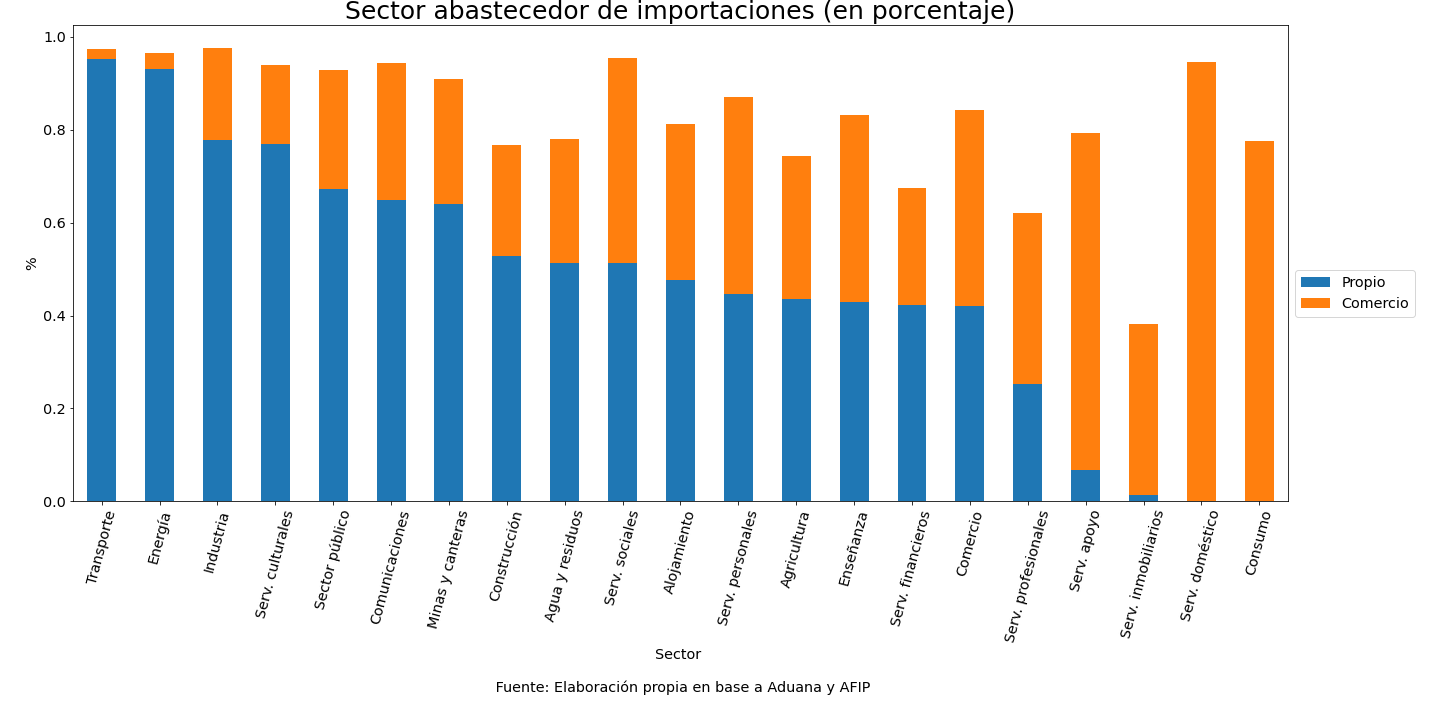
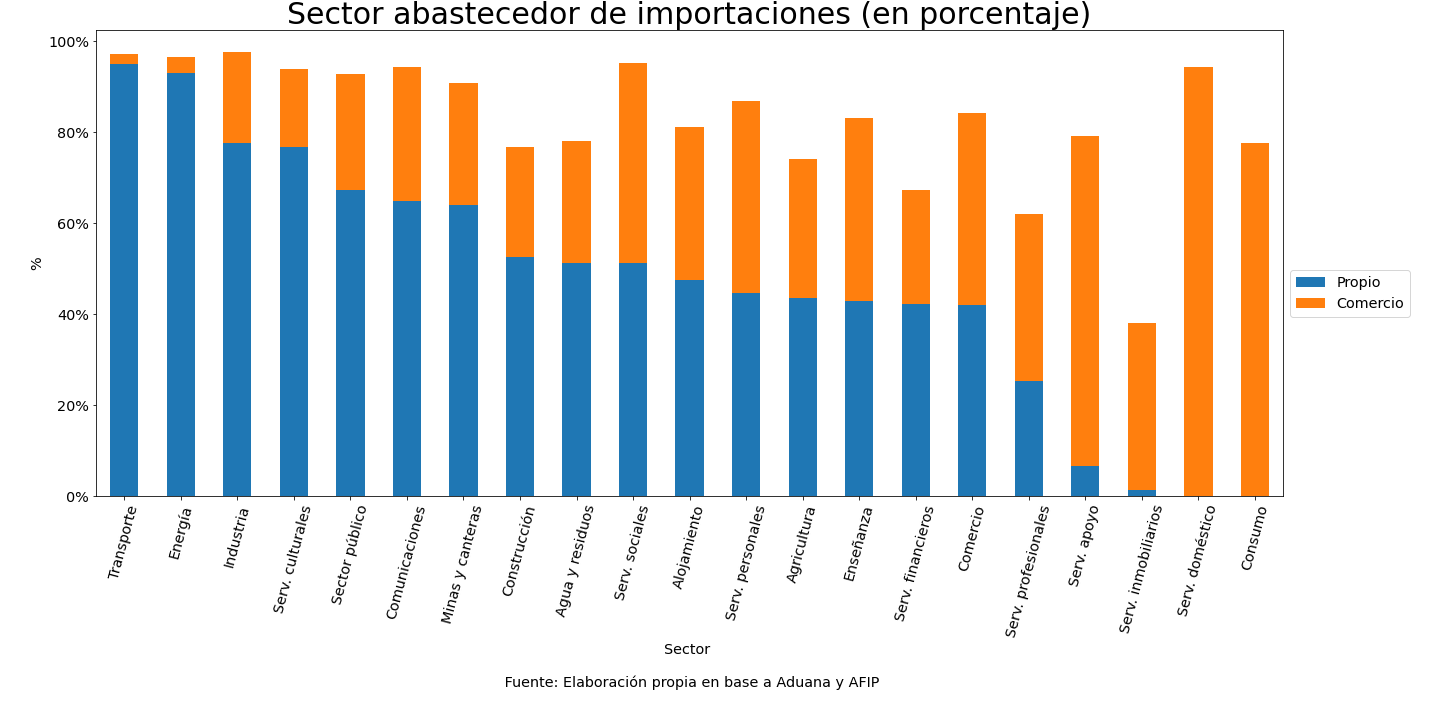
graficos letra comparacion

Changed region(s): [[0.0312, 0.0, 1.0, 0.8861], [0.3438, 0.9472, 0.5938, 0.9778], [0.4375, 0.8861, 0.5, 0.9167]]

diff --git a/scripts/letra/clasificador_SISD_letra.py b/scripts/letra/clasificador_SISD_letra.py
@@ -82,13 +82,13 @@ join_final = pd.read_csv("../data/resultados/impo_con_ponderaciones.csv")
 #############################################
 
 #creamos df para guardar los insumos de la matriz
-insumo_matriz = pd.DataFrame()
-insumo_matriz ["cuit"]=""
-insumo_matriz ["hs6"]=""
-insumo_matriz ["valor_pond"]=""    
-insumo_matriz ["si"]=""    
-insumo_matriz ["sd"]=""
-insumo_matriz ["ue_dest"]=""
+# insumo_matriz = pd.DataFrame()
+# insumo_matriz ["cuit"]=""
+# insumo_matriz ["hs6"]=""
+# insumo_matriz ["valor_pond"]=""    
+# insumo_matriz ["si"]=""    
+# insumo_matriz ["sd"]=""
+# insumo_matriz ["ue_dest"]=""
 
 # matriz_sisd = def_insumo_matriz(insumo_matriz, join_final)
 matriz_sisd = pd.read_csv("../data/resultados/matriz_pesada.csv")
@@ -111,7 +111,7 @@ z= z.replace(np.nan,0)
 
 
 #############################################
-#             Visualización                 #
+#             Matriz Numpy                 #
 #############################################
 
 # transformacion a array de np
@@ -137,13 +137,17 @@ sectores = pd.DataFrame( { "desc":sectores_desc.values(), "letra": sectores_desc
 #diagonal sobre total col y comercio sobre total
 diag_total_col = diagonal/col_sum
 g_total_col = z_visual[6][:]/col_sum
-comercio_y_propio = pd.DataFrame({"Propio": diag_total_col , 'Comercio': g_total_col} , index = sectores_desc.values())
+comercio_y_propio = pd.DataFrame({"Propio": diag_total_col*100 , 'Comercio': g_total_col*100} , index = sectores_desc.values())
 
 
 #importaciones totales (ordenadas)
 impo_tot_sec = pd.DataFrame({"impo_tot": col_sum, "letra":sectores_desc.keys() }, index=sectores_desc.values())  
 impo_tot_sec.sort_values(by = "impo_tot", ascending= False, inplace = True)
 
+
+# =============================================================================
+#                       Visualizacion
+# =============================================================================
 #parametro para graficos
 params = {'legend.fontsize': 'x-large',
           'figure.figsize': (20, 10),
@@ -153,7 +157,6 @@ params = {'legend.fontsize': 'x-large',
          'ytick.labelsize':'x-large'}
 plt.rcParams.update(params)
  
-
 
 ##### grafico 1
 #posiciones para graf
@@ -171,18 +174,19 @@ plt.savefig('../data/resultados/impo_totales_letra.png')
 
 ##### grafico 2
 #graf division comercio y propio
-comercio_y_propio.sort_values(by = 'Propio', ascending = False).plot(kind = "bar", rot = 75,
-                                                                     stacked = True, ylabel = "%", xlabel = "Sector \n \n Fuente: Elaboración propia en base a Aduana y AFIP")#,
-                                                                     # title = "Sector abastecedor de importaciones (en porcentaje)")
-plt.legend(loc='best', bbox_to_anchor=(1.0, 0.5))
-plt.tight_layout(pad=2.5)
-plt.title( "Sector abastecedor de importaciones (en porcentaje)",  fontsize = 25)
+import matplotlib.ticker as mtick
+ax = comercio_y_propio.sort_values(by = 'Propio', ascending = False).plot(kind = "bar", rot = 75,
+                                                                     stacked = True, ylabel = "%", xlabel = "Sector \n \n Fuente: Elaboración propia en base a Aduana y AFIP")
+                                                                     
+ax.yaxis.set_major_formatter(mtick.PercentFormatter())
+ax.legend(loc='best', bbox_to_anchor=(1.0, 0.5))
+plt.tight_layout(pad=3)
+plt.title( "Sector abastecedor de importaciones (en porcentaje)",  fontsize = 30)
 plt.savefig('../data/resultados/comercio_y_propio_letra.png')
 
 
-##### grafico 3
+##### insumos tabla 1
 # Top 5 de importaciones de cada sector
-
 x = matriz_sisd_final.groupby(["hs6", "sd"], as_index=False)['valor_pond'].sum("valor_pond")
 top_5_impo = x.reset_index(drop = True).sort_values(by = ["sd", "valor_pond"],ascending = False)
 top_5_impo  = top_5_impo.groupby(["sd"], as_index = True).head(5)
@@ -192,14 +196,13 @@ top_5_impo  = pd.merge(top_5_impo  , impo_tot_sec, left_on="letra", right_on="le
 top_5_impo["impo_relativa"] = top_5_impo["valor_pond"]/top_5_impo["impo_tot"] 
 top_5_impo["short_name"] = top_5_impo["HS6Desc"].str.slice(0,15)
 
-
 top_5_impo.to_csv("../data/resultados/top5_impo.csv")
 top_5_impo.to_excel("../data/resultados/top5_impo.xlsx")
 
 
-##### grafico 4
+##### grafico 3
 
-#carga balance cambiario
+######## carga balance cambiario
 bce_cambiario = pd.read_csv("../data/balance_cambiario.csv", skiprows = 3, error_bad_lines=False, sep= ";", na_values =['-'])
 bce_cambiario.drop(bce_cambiario.columns[16:], axis=1, inplace=True)
 bce_cambiario.rename(columns= {"Años": "anio", "ANEXO": "partida", "Denominación": "sector" }, inplace= True)
@@ -231,24 +234,46 @@ R= impo_tot_bcra.iloc[[8]].sum() #serv culturales
 
 impo_bcra_letra =  pd.DataFrame([A,B,C,D,E,F,G,H,I,J,K,O,R], index= ["A","B","C","D","E","F","G","H","I","J","K","O","R"]).drop("sector", axis = 1).reset_index().rename(columns= {"index": "letra", 0: "impo_bcra"} )
 
+
+######## carga para CIIU
+isic = pd.read_csv("../data/JobID-64_Concordance_HS_to_I3.csv", encoding = "latin" )
+isic=isic.iloc[:,[0,2]]
+isic.columns= ["HS6", "ISIC"]
+
+dic_ciiu = pd.read_excel("../data/Diccionario CIIU3.xlsx")
+dic_ciiu = dic_ciiu.iloc[:, [0,-2,-1] ]
+dic_ciiu.columns = ["ISIC", "letra", "letra_desc"]
+
+ciiu = pd.merge(isic, dic_ciiu, how= "left" , left_on ="ISIC", right_on ="ISIC")
+
+ciiu["letra"].unique()
+impo_ciiu["letra"].unique()
+impo_ciiu["letra_desc"].unique()
+
+impo_ciiu =pd.merge(join_impo_clae_bec_bk[["HS6", "valor"]], ciiu, how = "left" ,right_on="HS6", left_on="HS6")
+impo_ciiu_letra =impo_ciiu[impo_ciiu["letra"].notnull()].groupby("letra")["valor"].sum()
+
+as_list = impo_ciiu_letra.index.tolist()
+idx = as_list.index("D")
+as_list[idx] = "C"
+impo_ciiu_letra.index = as_list
+
+impo_ciiu_letra = pd.DataFrame(impo_ciiu_letra).reset_index() 
+impo_ciiu_letra.columns = ["letra", "impo_ciiu"]
+
+######### COMPARACION
 comparacion = pd.merge(impo_tot_sec, impo_bcra_letra, left_on= "letra", right_on= "letra", how="right" )
+comparacion = pd.merge(comparacion, impo_ciiu_letra, left_on= "letra", right_on= "letra", how="left" )
+
 comparacion = pd.merge(comparacion, sectores , left_on= "letra", right_on= "letra", how="left" )
 comparacion["impo_tot"] = np.log(comparacion["impo_tot"]/10**6) 
 comparacion["impo_bcra"] = np.log(comparacion["impo_bcra"]) 
+comparacion["impo_ciiu"] = np.log(comparacion["impo_ciiu"]) 
 
-comparacion.sort_values(by = 'impo_tot', ascending = False).plot(x="desc", y = ["impo_tot", "impo_bcra"], kind="bar", rot=75,
-                 ylabel = "Millones de dólares, escala logarítmica", xlabel = "Sector \n \n Fuente: Elaboración propia en base a BCRA, Aduana y AFIP")#,)
+comparacion.sort_values(by = 'impo_tot', ascending = False).plot(x="desc", y = ["impo_tot", "impo_bcra", "impo_ciiu"], kind="bar", rot=75,
+                 ylabel = "Millones de dólares, escala logarítmica", xlabel = "Sector \n \n Fuente: Elaboración propia en base a BCRA, Aduana y AFIP. La estimación del BCRA no es exclusiva de Bienes de Capital")#,)
 plt.legend(loc='best', bbox_to_anchor=(1.0, 0.5))
-plt.tight_layout(pad=2.5)
-plt.title( "Importacion total sectorial. Comparación de estimaciones en escala logarítmica",  fontsize = 25)
-plt.legend(["SI-SD", "BCRA"])
+plt.tight_layout(pad=3)
+plt.title( "Importacion sectorial. Comparación de estimaciones en escala logarítmica",  fontsize = 30)
+plt.legend(["SI-SD", "BCRA", "CIIU"])
 plt.savefig('../data/resultados/comparacion_estimaciones.png')
-
-
-#carga para CIIU
-isic = pd.read_csv("../data/JobID-64_Concordance_HS_to_I3.csv", encoding = "latin" )
-
-
-
-
-
